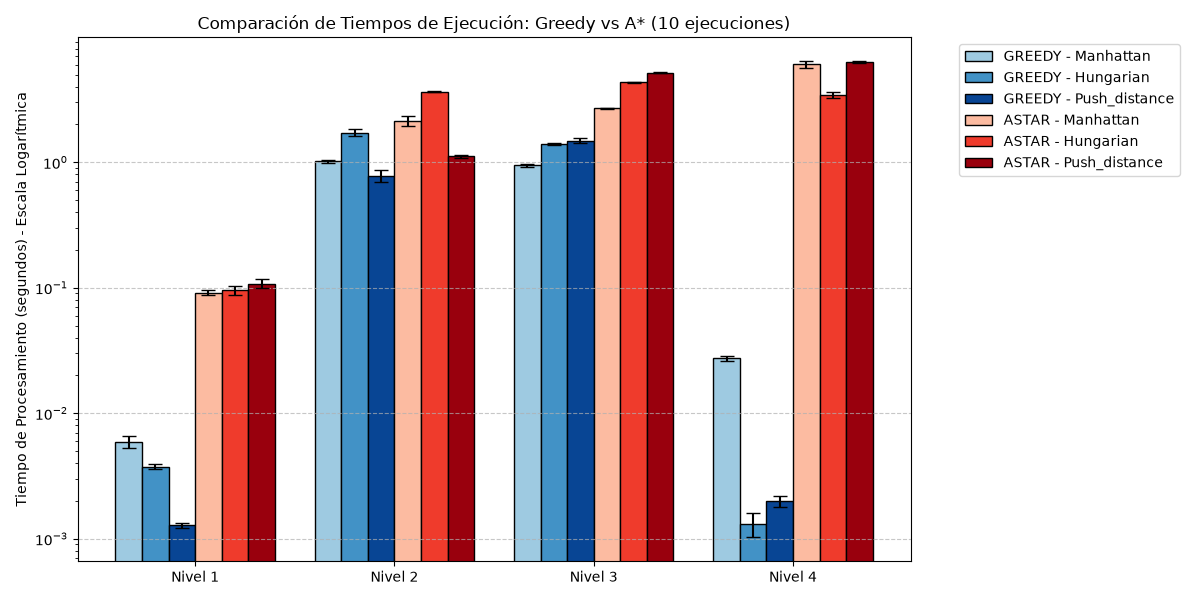
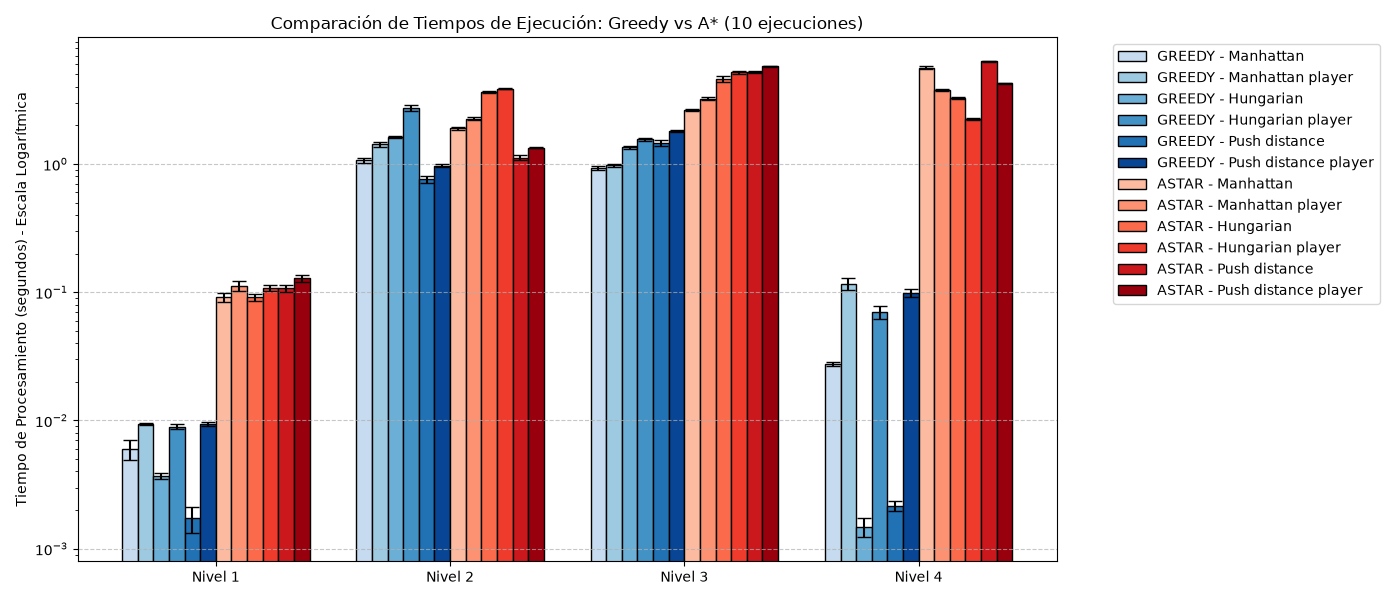
feat: added _player to greedy vs astar

diff --git a/TP1/experiments/greedy_vs_astar.py b/TP1/experiments/greedy_vs_astar.py
@@ -44,10 +44,10 @@ def plot_results(results, levels, algorithms, heuristics):
     combos = [(a, h) for a in algorithms for h in heuristics]
     width = 0.8 / len(combos)
     
-    fig, ax = plt.subplots(figsize=(12, 6))
+    fig, ax = plt.subplots(figsize=(14, 6))
     
-    greedy_colors = ['#9ecae1', '#4292c6', '#084594']
-    astar_colors = ['#fcbba1', '#ef3b2c', '#99000d']
+    greedy_colors = ['#c6dbef', '#9ecae1', '#6baed6', '#4292c6', '#2171b5', '#084594']
+    astar_colors = ['#fcbba1', '#fc9272', '#fb6a4a', '#ef3b2c', '#cb181d', '#99000d']
     
     color_map = {}
     for i, h in enumerate(heuristics):
@@ -72,8 +72,11 @@ def plot_results(results, levels, algorithms, heuristics):
         
         color = color_map.get((algo, h), None)
         
+        # Format the label to replace underscores with spaces
+        formatted_h = h.replace('_', ' ').capitalize()
+        
         # Use capsize for error bars so they look good
-        ax.bar(x + offset, means, width, yerr=stds, label=f"{algo.upper()} - {h.capitalize()}", color=color, edgecolor='black', capsize=5)
+        ax.bar(x + offset, means, width, yerr=stds, label=f"{algo.upper()} - {formatted_h}", color=color, edgecolor='black', capsize=5)
         
     ax.set_ylabel('Tiempo de Procesamiento (segundos) - Escala Logarítmica')
     ax.set_yscale('log')
@@ -104,8 +107,12 @@ def main():
     levels = ["level-1", "level-2", "level-3", "level-4"]
     algorithms = ["greedy", "astar"]
     
-    # Selecting representative heuristics
-    heuristics = ["manhattan", "hungarian", "push_distance"]
+    # Selecting representative heuristics including player variants
+    heuristics = [
+        "manhattan", "manhattan_player",
+        "hungarian", "hungarian_player",
+        "push_distance", "push_distance_player"
+    ]
     
     print(f"Starting experiment with {args.runs} runs per configuration...")
     results = run_experiment(levels, algorithms, heuristics, runs=args.runs)
